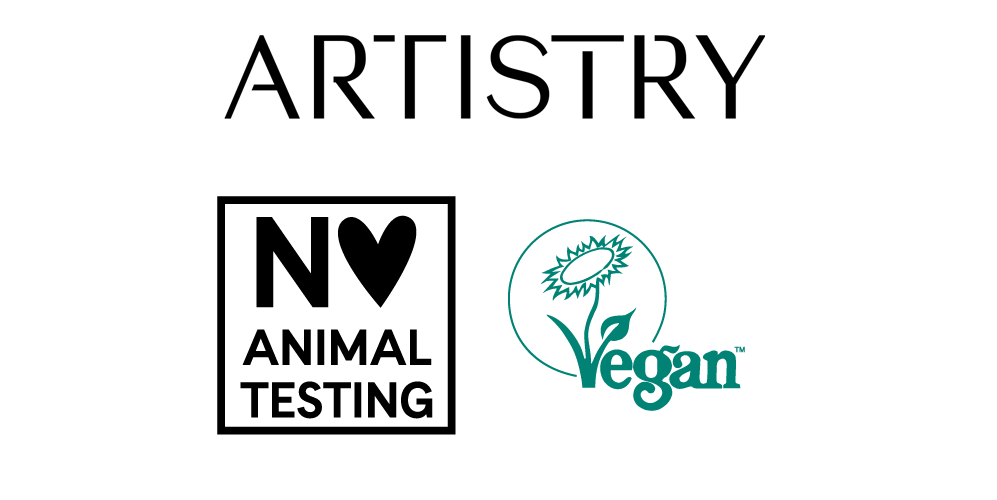
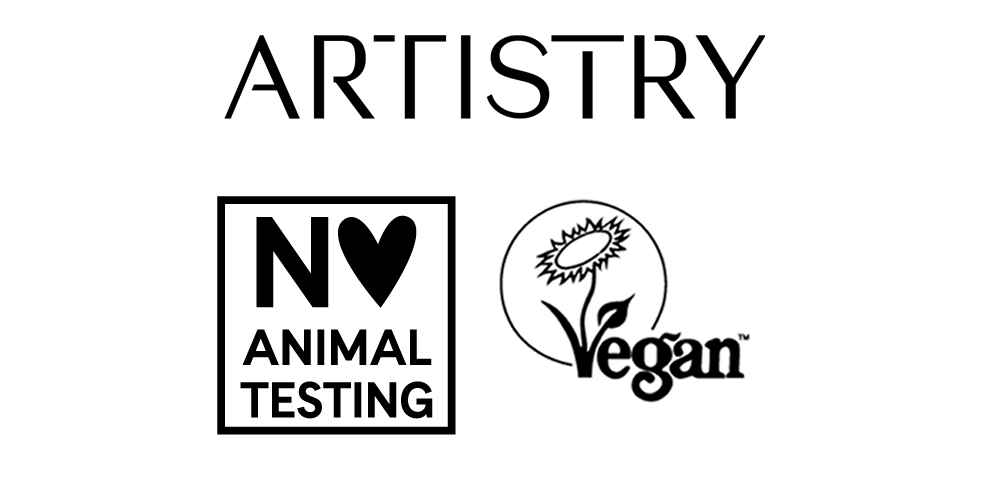
cambios

Changed region(s): [[0.4975, 0.39, 0.7462, 0.84]]

diff --git a/src/app/components/why-irresistibles/why-irresistibles.component.scss b/src/app/components/why-irresistibles/why-irresistibles.component.scss
@@ -231,8 +231,11 @@
 
 
 
+
+
+
 .logos-icon {
-    width: 80%; 
+    width: 90%; 
     height: 303px; 
     margin-bottom: 1rem; 
     object-fit: contain;
